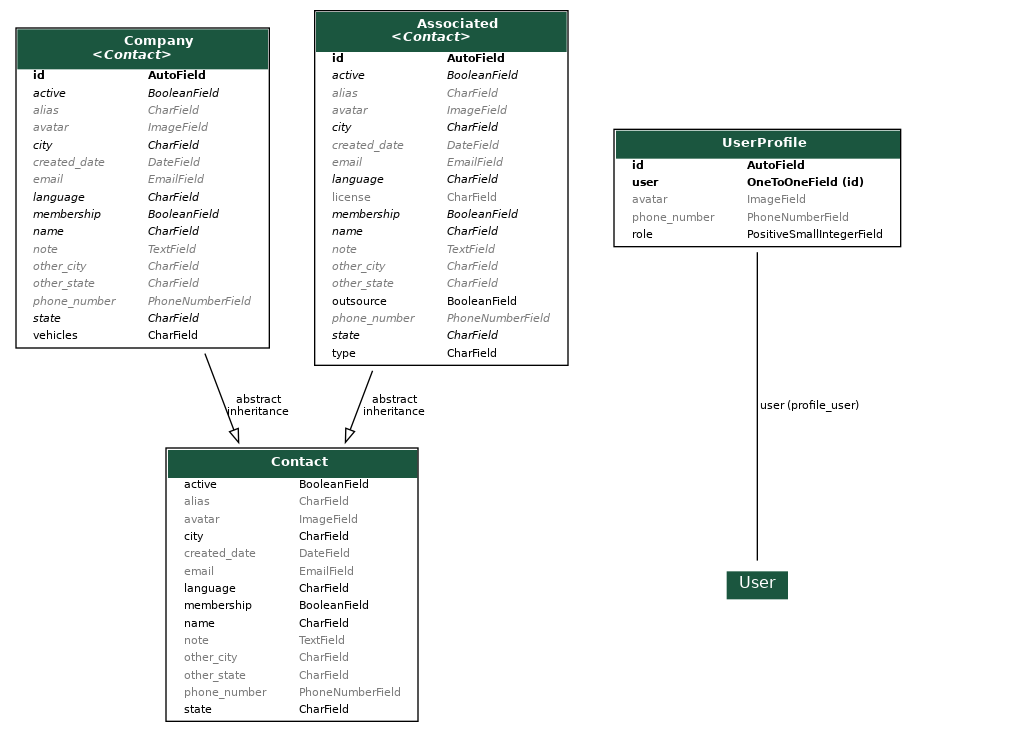
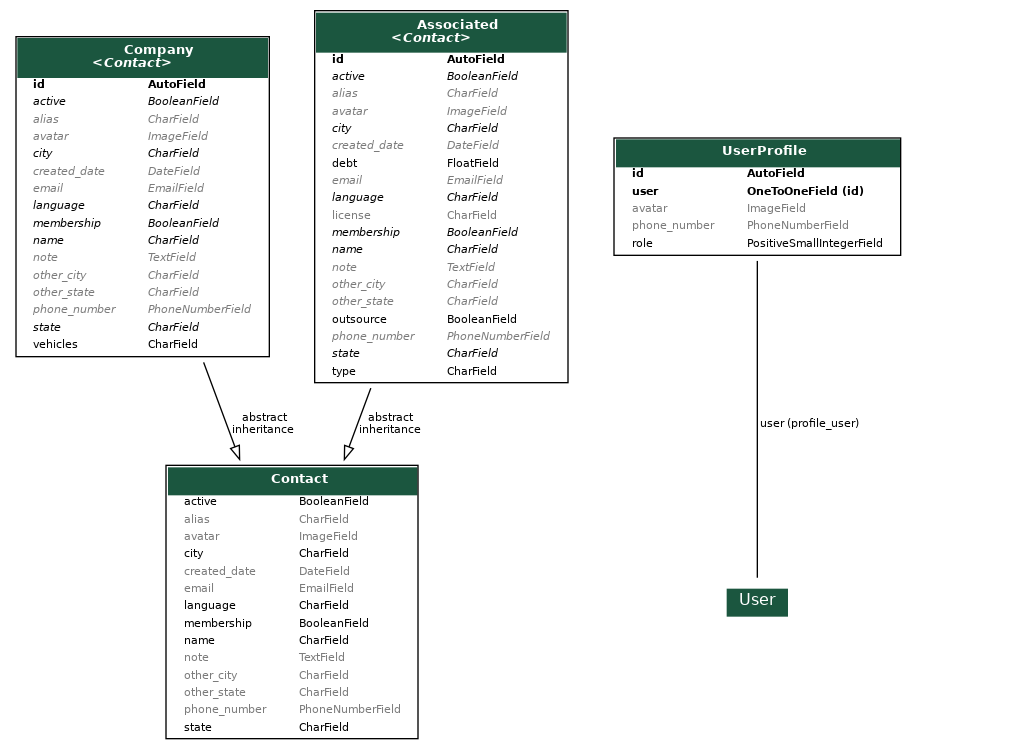
Updating models in the readme

diff --git a/README.md b/README.md
@@ -31,6 +31,8 @@ for a given labor. The **ServiceCategory** is used for filtering in the user int
 
 Each **Order** has one or several **Payment** associated when completed. **PaymentCategory** divides payments into payment methods. 
 
+The **PendingPayment** accounts the debt payment for a given client.
+
 The **Expense** model accounts for the Third Party Services required for the given *service* **Order**. 
 
 ![Services UML diagram](https://raw.githubusercontent.com/vladimir1284/gestor/master/services_models.png)
